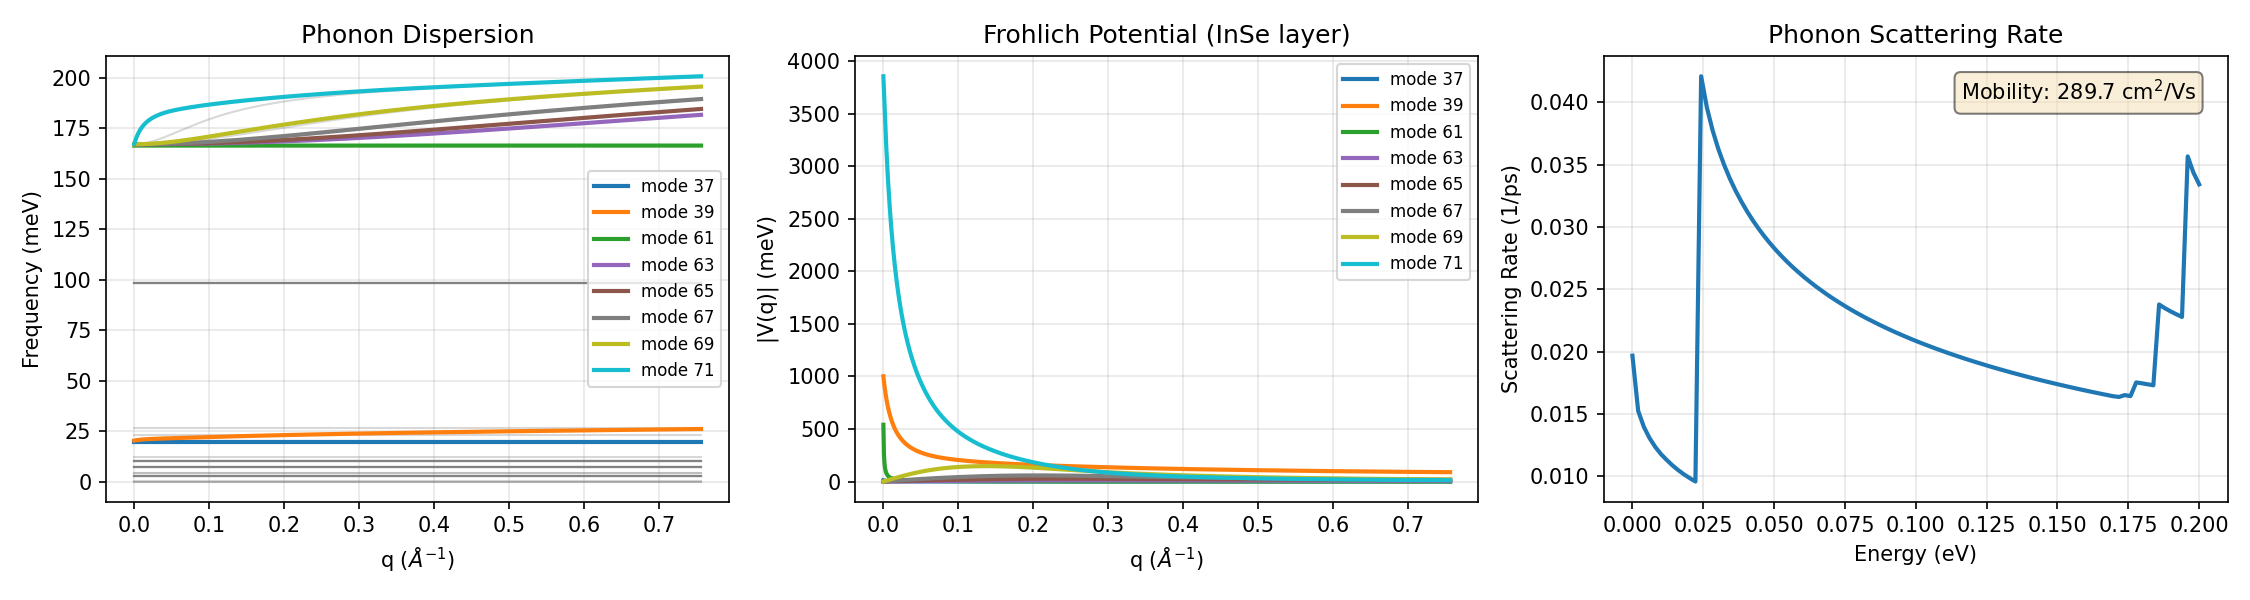
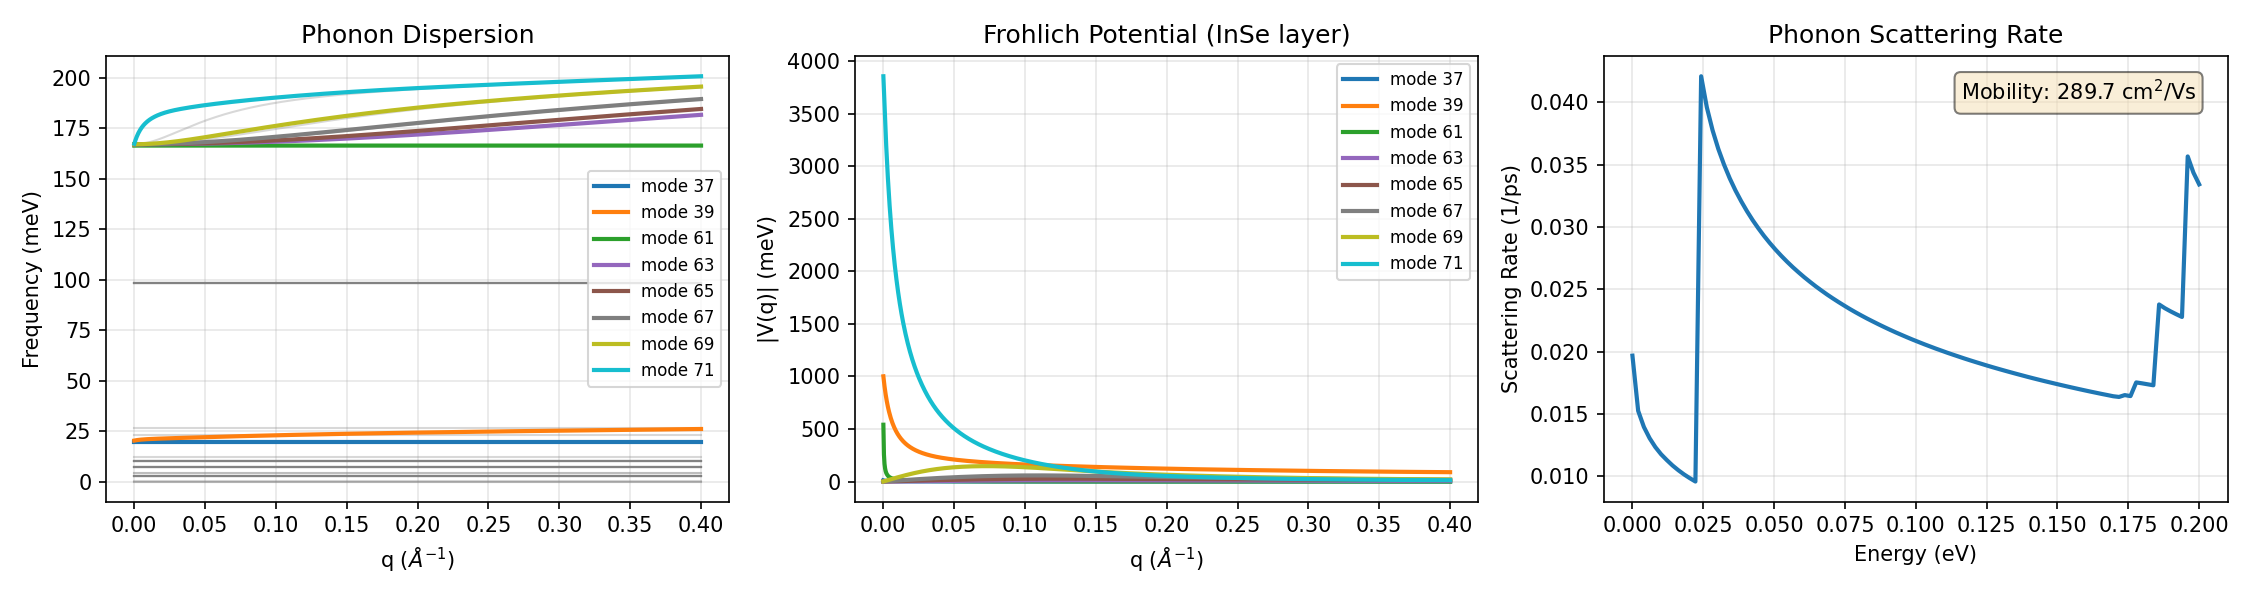
Fix qlen unit conversion in example and regenerate overview figure
The cc754fb fix made calc.qlen a pre-converted Angstrom^-1 quantity, so
the extra division by Bohr2A in the isolated-vs-coupled comparison plot
scaled the x-axis incorrectly while still labeling it Angstrom^-1. Plot
calc.qlen directly to stay consistent with the other panels, drop the
now-unused unit2 import, annotate units in the README API block, and
regenerate overview.png so the committed figure matches current output.

Changed region(s): [[0.3733, 0.84, 0.6533, 0.9], [0.0311, 0.84, 0.3111, 0.9]]

diff --git a/examples/01_heterostructure_analysis.py b/examples/01_heterostructure_analysis.py
@@ -10,7 +10,6 @@ Demonstrates all physical quantities obtainable from the package:
 import numpy as np
 import matplotlib.pyplot as plt
 from qeh_frohlich import FrohlichHeterostructure, BBset, Hartree
-from qeh_frohlich import unit2
 
 # --- Setup: InSe encapsulated by 5 BN layers on each side ---
 layers = 5 * ['BN+froh'] + ['InSe+froh'] + 5 * ['BN+froh']
@@ -87,12 +86,11 @@ bbset_isolated.get_frohlich(
 
 froh_coupled = np.abs(calc.bbset.bbdct['froh']) * Hartree * 1000  # meV
 froh_isolated = np.abs(bbset_isolated.bbdct['froh']) * Hartree * 1000
-qlen_ang = calc.qlen / unit2.Bohr2A
 
 plt.figure()
 max_mode = np.argmax(np.max(froh_coupled[:, :, 5], axis=0))
-plt.plot(qlen_ang, froh_coupled[:, max_mode, 5], 'b-', lw=2, label='Coupled')
-plt.plot(qlen_ang, froh_isolated[:, max_mode, 5], 'r--', lw=2, label='Isolated')
+plt.plot(calc.qlen, froh_coupled[:, max_mode, 5], 'b-', lw=2, label='Coupled')
+plt.plot(calc.qlen, froh_isolated[:, max_mode, 5], 'r--', lw=2, label='Isolated')
 plt.xlabel(r'q ($\AA^{-1}$)')
 plt.ylabel('|V(q)| (meV)')
 plt.title(f'Frohlich Potential: Mode {max_mode} (InSe layer)')

diff --git a/README.md b/README.md
@@ -53,9 +53,9 @@ calc.get_scattering_rates()        # Scattering rate vs energy
 calc.get_mobility()                # Carrier mobility
 
 # Access results as attributes
-calc.dispersion    # {'qlen': array, 'frequencies': array}
-calc.frohlich      # {'qlen': array, 'potentials': array, 'frequencies': array}
-calc.scattering    # {'energy': array, 'rates': array}
+calc.dispersion    # {'qlen': array (Angstrom^-1), 'frequencies': array (meV)}
+calc.frohlich      # {'qlen': array (Angstrom^-1), 'potentials': array (meV), 'frequencies': array (meV)}
+calc.scattering    # {'energy': array (eV), 'rates': array (1/ps)}
 calc.mobility      # list of floats (cm^2/Vs)
 calc.het           # QEH Heterostructure object (for advanced use)
 ```
